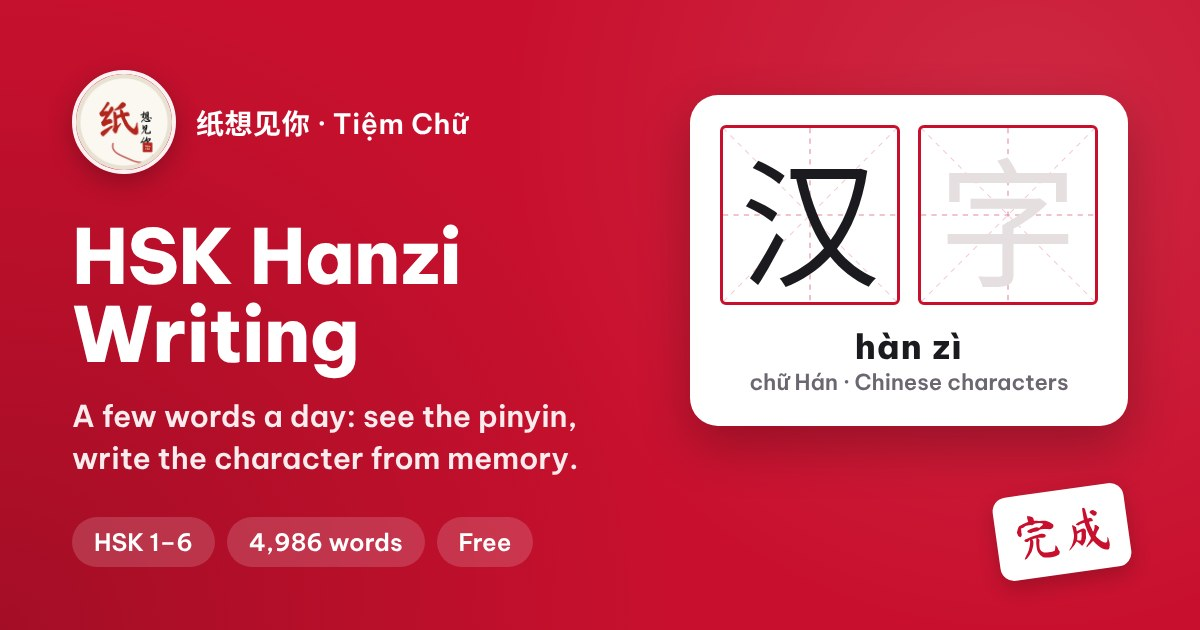
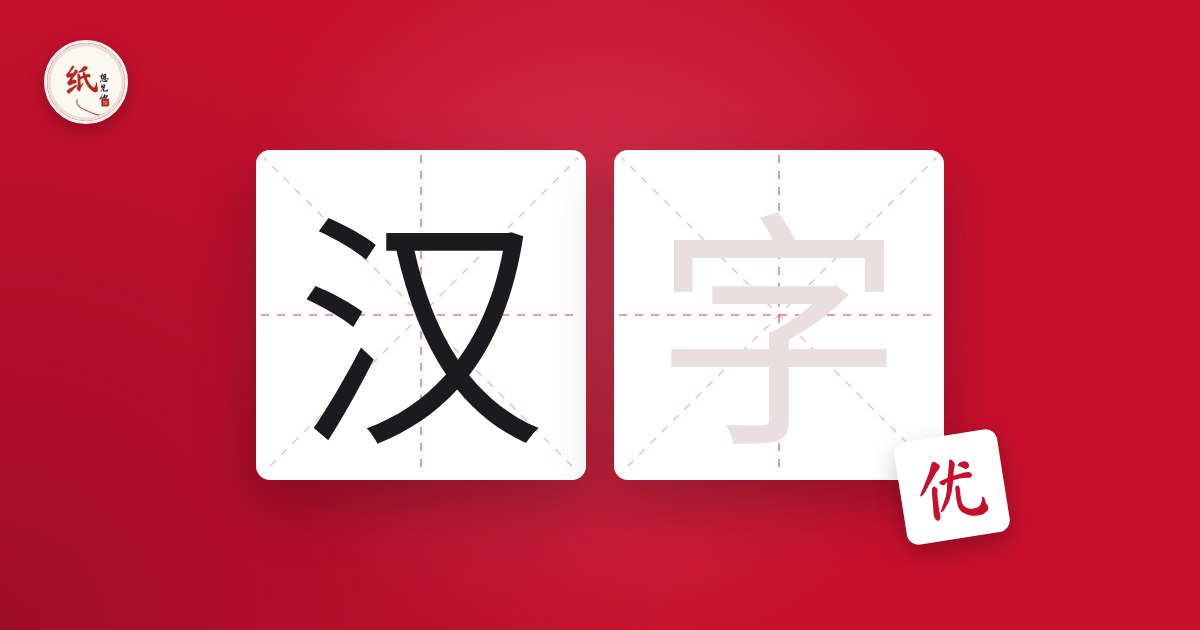
Simplify share preview image
Claude-Session: https://claude.ai/code/session_01QJSaeKKxnhRGCjux24mBZV

diff --git a/index.html b/index.html
@@ -17,14 +17,14 @@ window.track=function(name,params){try{gtag('event',name,params||{})}catch(e){}}
 <meta property="og:url" content="https://hsk-hanzi-writing.vercel.app/">
 <meta property="og:title" content="纸想见你 · HSK Hanzi Writing">
 <meta property="og:description" content="A few words a day: see the pinyin, write the character from memory. Free HSK 1–6 Chinese character writing practice with stroke order and spaced repetition.">
-<meta property="og:image" content="https://hsk-hanzi-writing.vercel.app/og-image.jpg">
+<meta property="og:image" content="https://hsk-hanzi-writing.vercel.app/og-image.jpg?v=2">
 <meta property="og:image:width" content="1200">
 <meta property="og:image:height" content="630">
 <meta property="og:image:alt" content="HSK Hanzi Writing by 纸想见你 · Tiệm Chữ">
 <meta name="twitter:card" content="summary_large_image">
 <meta name="twitter:title" content="纸想见你 · HSK Hanzi Writing">
 <meta name="twitter:description" content="A few words a day: see the pinyin, write the character from memory. Free HSK 1–6 Chinese character writing practice with stroke order and spaced repetition.">
-<meta name="twitter:image" content="https://hsk-hanzi-writing.vercel.app/og-image.jpg">
+<meta name="twitter:image" content="https://hsk-hanzi-writing.vercel.app/og-image.jpg?v=2">
 <meta name="theme-color" content="#c8102e">
 <link rel="preconnect" href="https://fonts.googleapis.com">
 <link href="https://fonts.googleapis.com/css2?family=Be+Vietnam+Pro:wght@400;600;800&family=Ma+Shan+Zheng&family=Noto+Sans+SC:wght@500&display=swap" rel="stylesheet">
